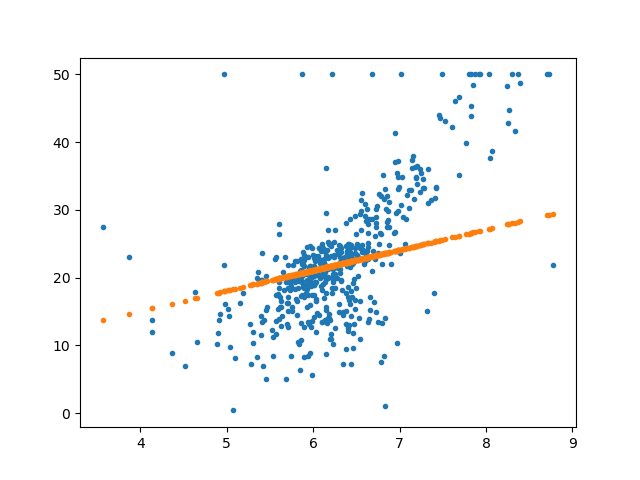
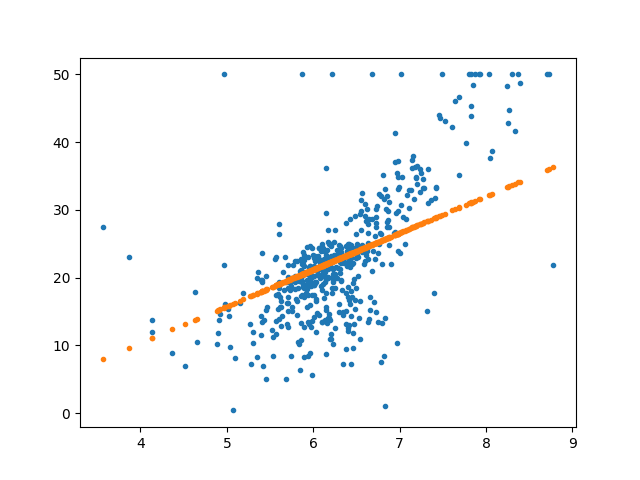
Assist is good

diff --git a/Assist.py b/Assist.py
@@ -1,0 +1,121 @@
+import numpy as np
+import matplotlib.pyplot as plt
+from mpl_toolkits.mplot3d import Axes3D
+
+
+def linear_regression_2D(input_array, target_array, epoch):
+    weight, bias = np.zeros(shape=(2,1)), np.zeros(shape=(506,1))
+    loss_list = []
+    weight_list, bias_list = [[], []], []
+    grad_weight_list, grad_bias_list = [[], []], []
+    lr = 1e-6
+
+    for i in range(0, epoch):
+        predict_array = predict(input_array, weight, bias)
+        diff_array = predict_array - target_array
+        gradient_weight1 = np.sum(2*input_array[:,0]*diff_array) / len(diff_array) 
+        gradient_weight2 = np.sum(2*input_array[:,1]*diff_array) / len(diff_array)
+        gradient_bias = np.sum(2*diff_array) / len(diff_array)
+        weight[0,0] -= (lr * gradient_weight1)
+        weight[1,0] -= (lr * gradient_weight2)
+        bias[:,0] -= (lr * gradient_bias)
+        loss = lossfunction(diff_array)
+
+        weight_list[0].append(weight[0,0])
+        weight_list[1].append(weight[1,0])
+        bias_list.append(bias[0,0])
+
+        grad_weight_list[0].append(gradient_weight1)
+        grad_weight_list[1].append(gradient_weight2)
+        grad_bias_list.append(gradient_bias)
+
+        loss_list.append(loss)
+
+    weight_arr = np.array(weight_list)
+    bias_arr = np.array(bias_list)
+
+    grad_weight_arr = np.array(grad_weight_list)
+    grad_bias_arr = np.array(grad_bias_list)
+
+    loss_arr = np.array(loss_list)
+
+    return weight_arr, bias_arr, loss_arr, grad_weight_arr, grad_bias_arr
+    
+def get_data(): 
+    number_of_rooms_list, price_list, crime_rate_list = [], [], []
+    with open("BostonData1.txt", "r") as f:
+                for lines in f: 
+                    a = lines[0:5]
+                    b = lines[5:10]
+                    number_of_rooms_list.append(float(a.replace(" ", "")))
+                    price_list.append(float(b.replace(" ", "")))
+    with open("BostonData2.txt", "r") as f:
+                for lines in f:
+                    c = lines[3:10]
+                    crime_rate_list.append(float(c))
+    input_array = np.c_[np.array(number_of_rooms_list), np.array(crime_rate_list)]
+    target_array = np.array(price_list)
+    return(input_array, target_array)
+
+def predict(input_array, weight, bias):
+    predict_array = (input_array)@weight+bias
+    return predict_array
+
+
+def lossfunction(diff_array):
+    loss = np.sum((diff_array)**2)/len(diff_array)
+    return loss
+
+
+if __name__ == "__main__":
+    input_arr, target_arr = get_data()
+    epoch = 500
+    weight_arr, bias_arr, loss_arr, grad_weight_arr, grad_bias_arr = linear_regression_2D(input_arr, target_arr, epoch)
+
+
+    plt.figure()
+    plt.subplot(2, 1, 1)
+    plt.plot(input_arr[:,0], target_arr, ".", label="target")
+    plt.plot(input_arr[:,0], predict(input_arr, weight_arr[:, -1], bias_arr[-1]), ".", label="predict")
+    plt.legend()
+    plt.title("x: Room, y: Price")
+    
+    plt.subplot(2, 1, 2)
+    plt.plot(input_arr[:,1], target_arr, ".", label="target")
+    plt.plot(input_arr[:,1], predict(input_arr, weight_arr[:, -1], bias_arr[-1]), ".", label="predict")
+    plt.legend()
+    plt.title("x: Criminal, y: Price")
+
+    plt.tight_layout()
+    plt.savefig("Assist_LR_multi_scatter.png")
+    
+    #loss graph
+    plt.figure()
+    plt.plot(loss_arr)
+    plt.xlabel('epoch')
+    plt.ylabel('loss')
+    plt.title('learning graph(loss)')
+    plt.savefig("Assist_LR_multi_lossgraph.png")
+
+    #weight, bias graph
+    plt.figure()
+    plt.plot(weight_arr[0, :], ".", label="weight1")
+    plt.plot(weight_arr[1, :], ".", label="weight2")
+    plt.plot(bias_arr[:], ".", label="bias")
+    plt.xlabel('epoch')
+    plt.ylabel('param')
+    plt.title('learning graph(param)')
+    plt.legend()
+    plt.savefig("Assist_LR_multi_paramgraph.png")
+
+    #weight, bias's gradient graph
+    plt.figure()
+    plt.plot(grad_weight_arr[0, :], ".", label="grad_weight1")
+    plt.plot(grad_weight_arr[1, :], ".", label="grad_weight2")
+    plt.plot(grad_bias_arr[:], ".", label="grad_bias")
+    plt.xlabel('epoch')
+    plt.ylabel('grad_param')
+    plt.title('learning graph(grad_param)')
+    plt.legend()
+    plt.savefig("Assist_LR_multi_grad_paramgraph.png")
+

diff --git a/WithoutTorch_single.py b/WithoutTorch_single.py
@@ -30,9 +30,10 @@ def linear_regression_1D(input_array, target_array, epoch):
         target_mean=target_array.mean()
         acc=1-((target_array-predict_array)**2).sum()/((target_array-target_mean)**2).sum()
         #??gradient 초기화시키고 다시 위로 올라가서 시작 #0으로 만들어주고 반복하게끔
-        print(f"final : weight, bias, loss: {weight:.4f}, {bias:.4f}, {loss:.4f}")
-        print(f"acc : {acc:.4f}")
-        return weight, bias, loss
+    
+    print(f"final : weight, bias, loss: {weight:.4f}, {bias:.4f}, {loss:.4f}")
+    print(f"acc : {acc:.4f}")
+    return weight, bias, loss
     
 def get_data(): 
     number_of_rooms_list, price_list = [], []
